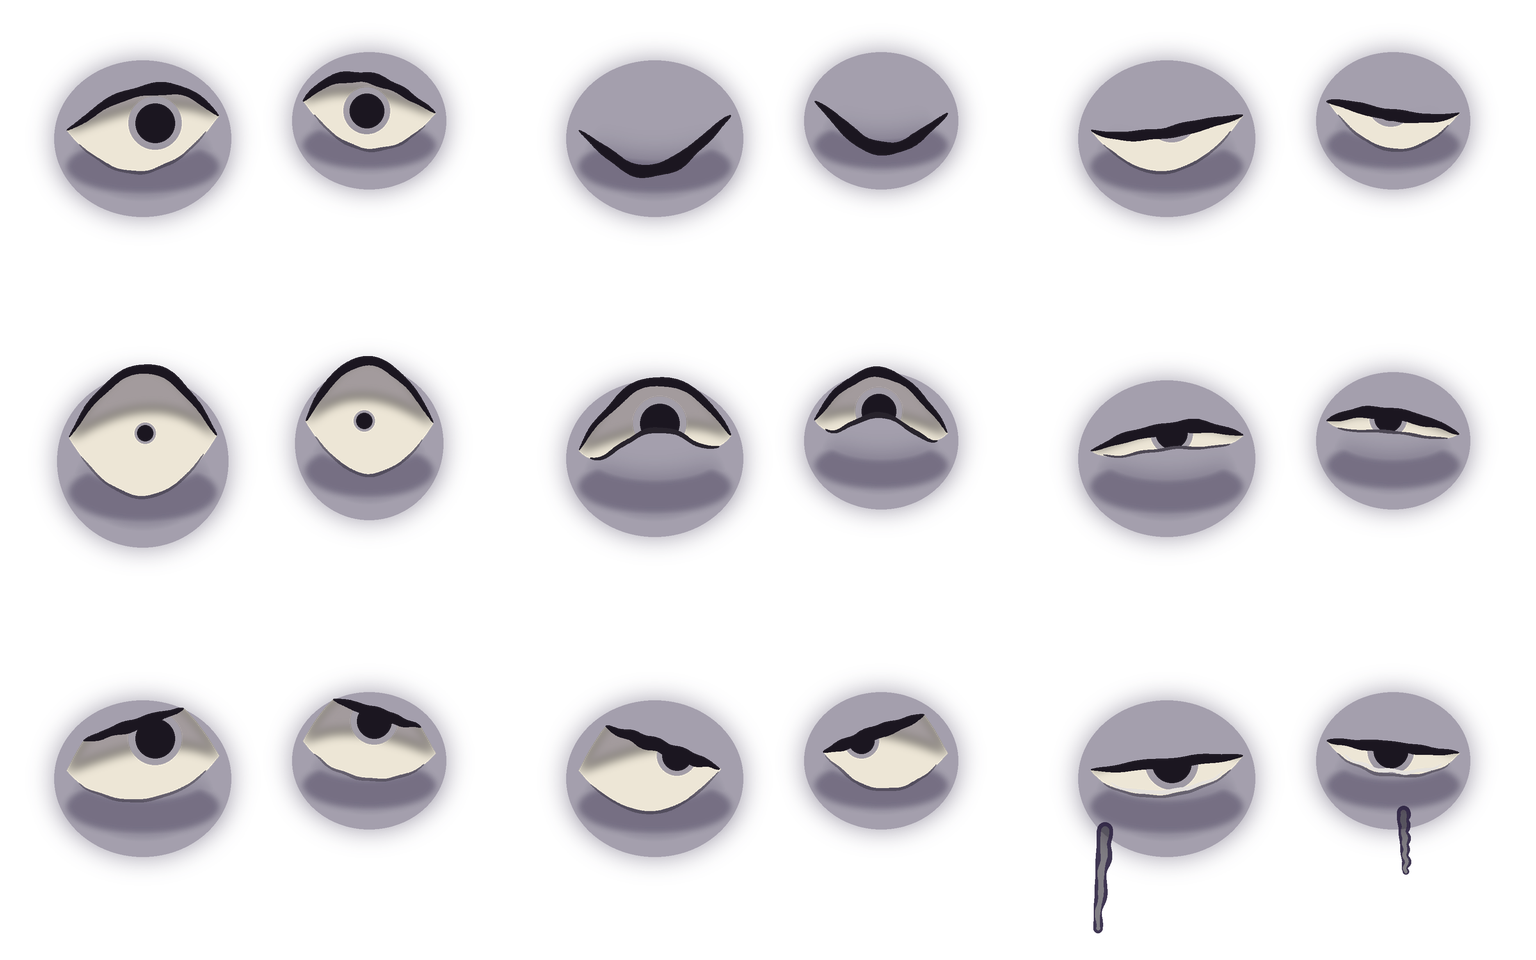
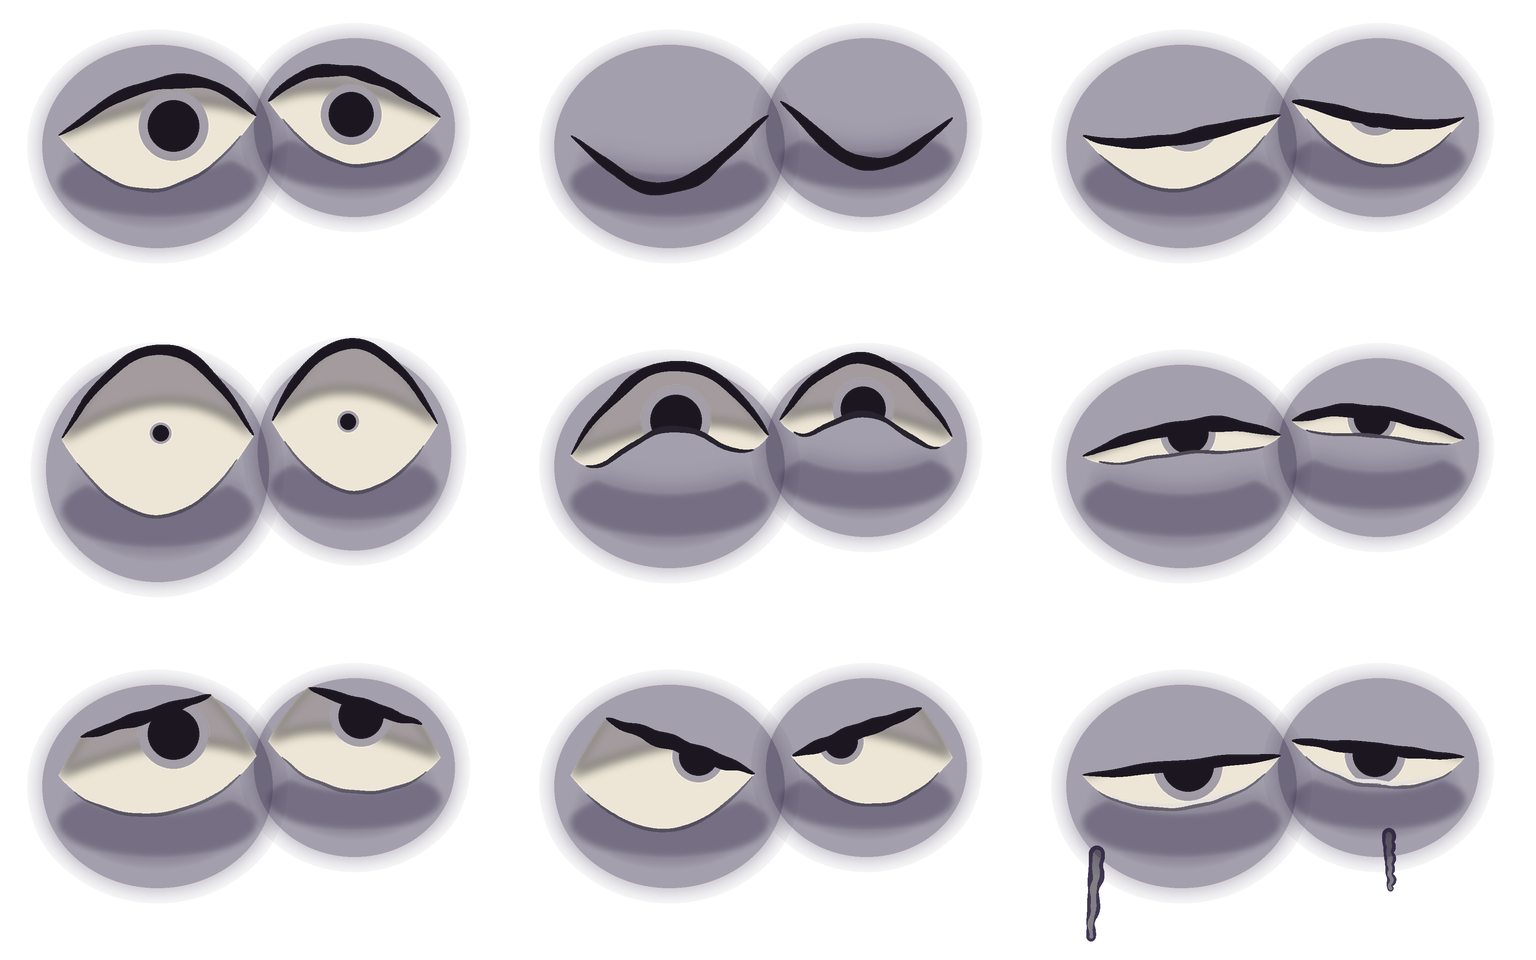
Aldeão v2, passo 7: prova do rosto nos tamanhos reais do jogo, janela dos olhos por ângulo, olhos 30% maiores, luz do jogo
- medir_zoom.py: altura em pixels na câmera do jogo (aldeão 19/44/112 px nos zooms 0,4/1/2,5 em 3024x1890)
- atlas com olhos e olheiras 30% maiores na mesma célula; rosto.json inalterado no formato
- face_patch com ângulo máximo (±35°, ±45°); material fosco e crepúsculo frio na prova
- assets/previews/aldeao_v2/prova_rosto_2.png

diff --git a/tools/arte/aldeao_v2/corpo_lib.py b/tools/arte/aldeao_v2/corpo_lib.py
@@ -113,12 +113,14 @@ def face_flatness(pts: np.ndarray, box: dict, raise_frac=0.0) -> dict:
     return out
 
 
-def flat_material(objects, color, name="pele"):
+def flat_material(objects, color, name="pele", matte=False):
     mat = bpy.data.materials.new(name)
     mat.use_nodes = True
     bsdf = mat.node_tree.nodes["Principled BSDF"]
     bsdf.inputs["Base Color"].default_value = color
-    bsdf.inputs["Roughness"].default_value = 0.9
+    bsdf.inputs["Roughness"].default_value = 1.0 if matte else 0.9
+    if matte and "Specular IOR Level" in bsdf.inputs:
+        bsdf.inputs["Specular IOR Level"].default_value = 0.0
     for obj in mesh_objects(objects):
         obj.data.materials.clear()
         obj.data.materials.append(mat)
@@ -129,6 +131,21 @@ def set_smooth(objects, smooth=True):
     for obj in mesh_objects(objects):
         for p in obj.data.polygons:
             p.use_smooth = smooth
+
+
+def twilight_lights(scene):
+    """Luz do jogo (GDD, seção 17): crepúsculo frio vindo de cima, fraco, ambiente roxo-acinzentado."""
+    for obj in [o for o in scene.objects if o.type == "LIGHT"]:
+        bpy.data.objects.remove(obj)
+    sun = bpy.data.objects.new("crepusculo", bpy.data.lights.new("crepusculo", "SUN"))
+    sun.data.energy = 1.6
+    sun.data.color = (0.72, 0.78, 0.95)
+    sun.data.angle = math.radians(20)
+    sun.rotation_euler = (math.radians(28), 0, math.radians(-20))  # quase de cima, um pouco da frente
+    scene.collection.objects.link(sun)
+    bg = scene.world.node_tree.nodes["Background"]
+    bg.inputs["Color"].default_value = (0.36, 0.33, 0.44, 1)
+    bg.inputs["Strength"].default_value = 0.55
 
 
 def setup_scene(resolution=1024, transparent=False):
@@ -178,7 +195,7 @@ def game_camera_offset(distance: float) -> Vector:
 
 # ---------- retalhos do rosto ----------
 
-def face_patch(body_obj, name: str, rect, cols: int, rows: int, offset_m=0.0015, grid=(24, 12)) -> bpy.types.Object:
+def face_patch(body_obj, name: str, rect, cols: int, rows: int, offset_m=0.0015, grid=(24, 12), phi_max_deg=None) -> bpy.types.Object:
     """Retalho curvo na frente da cabeça, afastado offset_m da pele, UV de 0 a 1 (o material escolhe a célula).
     Projeção cilíndrica em volta do eixo vertical da cabeça: cada linha da grade fica na altura z da janela e
     cada coluna num ângulo, de -phi_max a +phi_max, escolhido para que a corda corresponda à largura da janela.
@@ -192,7 +209,16 @@ def face_patch(body_obj, name: str, rect, cols: int, rows: int, offset_m=0.0015,
     yc = float((head[:, 1].min() + head[:, 1].max()) / 2)
     band = head[np.abs(head[:, 2] - (zt + zb) / 2) < 0.01]
     r_mid = float(band[:, 0].max() - band[:, 0].min()) / 2 if len(band) else float(head[:, 0].max() - head[:, 0].min()) / 2
-    phi_max = math.asin(min(0.995, (x1 - x0) / 2 / r_mid))
+    if phi_max_deg is not None:
+        # Janela pela corda do ângulo pedido; a altura segue a proporção da célula, centrada na janela dada.
+        phi_max = math.radians(phi_max_deg)
+        aspect = (x1 - x0) / (zt - zb)
+        half_w = r_mid * math.sin(phi_max)
+        zc = (zt + zb) / 2
+        x0, x1 = (x0 + x1) / 2 - half_w, (x0 + x1) / 2 + half_w
+        zt, zb = zc + half_w / aspect, zc - half_w / aspect
+    else:
+        phi_max = math.asin(min(0.995, (x1 - x0) / 2 / r_mid))
     nx, nz = grid
     bm = bmesh.new()
     verts = []
@@ -229,11 +255,13 @@ def face_patch(body_obj, name: str, rect, cols: int, rows: int, offset_m=0.0015,
     for p in mesh.polygons:
         p.use_smooth = True
     obj["phi_max_graus"] = math.degrees(phi_max)
+    obj["janela"] = [x0, zt, x1, zb]
     return obj
 
 
-def patch_material(name: str, image_path: Path, cols: int, rows: int):
-    """Material sem luz com o atlas: célula escolhida pelo nó Mapping (set_cell)."""
+def patch_material(name: str, image_path: Path, cols: int, rows: int, lit=False):
+    """Material com o atlas: célula escolhida pelo nó Mapping (set_cell). lit=False: emissão (sem luz);
+    lit=True: difuso fosco, recebe a mesma luz do corpo."""
     mat = bpy.data.materials.new(name)
     mat.use_nodes = True
     nodes, links = mat.node_tree.nodes, mat.node_tree.links
@@ -241,7 +269,12 @@ def patch_material(name: str, image_path: Path, cols: int, rows: int):
     out = nodes.new("ShaderNodeOutputMaterial")
     mix = nodes.new("ShaderNodeMixShader")
     transp = nodes.new("ShaderNodeBsdfTransparent")
-    emit = nodes.new("ShaderNodeEmission")
+    if lit:
+        emit = nodes.new("ShaderNodeBsdfDiffuse")
+        emit.inputs["Roughness"].default_value = 1.0
+        emit.outputs["BSDF"].name = "BSDF"
+    else:
+        emit = nodes.new("ShaderNodeEmission")
     tex = nodes.new("ShaderNodeTexImage")
     tex.image = bpy.data.images.load(str(image_path))
     tex.interpolation = "Linear"
@@ -254,7 +287,7 @@ def patch_material(name: str, image_path: Path, cols: int, rows: int):
     links.new(tex.outputs["Color"], emit.inputs["Color"])
     links.new(tex.outputs["Alpha"], mix.inputs["Fac"])
     links.new(transp.outputs["BSDF"], mix.inputs[1])
-    links.new(emit.outputs["Emission"], mix.inputs[2])
+    links.new(emit.outputs[0], mix.inputs[2])
     links.new(mix.outputs["Shader"], out.inputs["Surface"])
     if hasattr(mat, "surface_render_method"):
         mat.surface_render_method = "BLENDED"

diff --git a/tools/arte/aldeao_v2/prova_rosto.py b/tools/arte/aldeao_v2/prova_rosto.py
@@ -1,12 +1,10 @@
-"""Passo 5: prova do rosto no corpo limpo, antes de qualquer rig (Blender headless).
+"""Passo 7: nova prova do rosto no corpo limpo (Blender headless), material fiel ao jogo.
 
-Cria os retalhos "Olhos" e "Boca" na cabeça (curvos, 1,5 mm da pele, proporção da célula do atlas, UV 0..1) com
-o atlas final aplicado (material sem luz) e renderiza as 9 expressões na câmera do jogo (55°) em três variações:
-  a) janela dos olhos na posição atual;
-  b) janela dos olhos subida 10% da altura da cabeça;
-  c) posição atual, com a cabeça inclinada 10° para cima na pose de repouso.
-Saída: <pasta>/<variação>_<expressão>.png (fundo transparente) e <pasta>/prova.json. A montagem em 48 e 96 px
-e a linha de crepúsculo são do prova_rosto_folha.py.
+Retalhos "Olhos" e "Boca" com o atlas (olhos 30% maiores), janela dos olhos na altura da variação b (10% mais
+alta), largura por ângulo em volta do eixo da cabeça: variações "p35" (±35°) e "p45" (±45°). Pele #AEBFD3 fosca,
+luz baixa e fria do crepúsculo vinda de cima; retalhos com a mesma luz (não emissivos).
+Saída: <pasta>/<variação>_<expressão>.png (fundo transparente) e <pasta>/prova.json. A montagem nos tamanhos
+reais do jogo é do prova_rosto_folha.py.
 
 Uso:
   /Applications/Blender.app/Contents/MacOS/Blender -b --factory-startup --python tools/arte/aldeao_v2/prova_rosto.py -- <pasta_saida>
@@ -23,14 +21,14 @@ from mathutils import Matrix, Vector
 
 sys.path.insert(0, str(Path(__file__).resolve().parent))
 from corpo_lib import (EYES_FRAC, MOUTH_FRAC, ROOT, ROSTO, SKIN, face_patch, flat_material, game_camera_offset,  # noqa: E402
-                       head_box, import_glb, load_rosto, patch_material, set_cell, set_smooth, setup_scene, shoot, window_rect)
+                       head_box, import_glb, load_rosto, patch_material, set_cell, set_smooth, setup_scene, shoot, twilight_lights, window_rect)
 
 BODY = ROOT / "assets/modelos/aldeao_v2/aldeao_corpo.glb"
 RESOLUTION = 512
 ORTHO = 0.55  # m: enquadra o aldeão de 0,40 m
 PATCH_OFFSET = 0.0015
-RAISE_B = 0.10  # fração da altura da cabeça
-TILT_C = 10  # graus, cabeça para cima
+RAISE_B = 0.10  # fração da altura da cabeça (variação b aprovada)
+VARIANTS = {"p35": 35, "p45": 45}  # ângulo máximo em volta do eixo da cabeça
 NECK_BLEND = 0.03
 
 
@@ -57,29 +55,24 @@ def main() -> None:
     rosto = load_rosto()
     eyes_cfg, mouth_cfg = rosto["olhos"], rosto["boca"]
     info = {"variacoes": {}}
-    for variant in ("a", "b", "c"):
+    for variant, phi in VARIANTS.items():
         scene = setup_scene(RESOLUTION, transparent=True)
+        twilight_lights(scene)
         body = [o for o in import_glb(BODY) if o.type == "MESH"][0]
-        flat_material([body], SKIN)
+        flat_material([body], SKIN, matte=True)
         set_smooth([body], True)
         box = head_box(points(body))
-        raise_frac = RAISE_B if variant == "b" else 0.0
-        eyes = face_patch(body, "Olhos", window_rect(box, EYES_FRAC, raise_frac), eyes_cfg["colunas"], eyes_cfg["linhas"], PATCH_OFFSET, grid=(32, 20))
+        eyes = face_patch(body, "Olhos", window_rect(box, EYES_FRAC, RAISE_B), eyes_cfg["colunas"], eyes_cfg["linhas"], PATCH_OFFSET, grid=(32, 20), phi_max_deg=phi)
         mouth = face_patch(body, "Boca", window_rect(box, MOUTH_FRAC), mouth_cfg["colunas"], mouth_cfg["linhas"], PATCH_OFFSET, grid=(16, 8))
-        mat_e = patch_material("rosto_olhos", ROSTO / "olhos.png", eyes_cfg["colunas"], eyes_cfg["linhas"])
-        mat_m = patch_material("rosto_boca", ROSTO / "boca.png", mouth_cfg["colunas"], mouth_cfg["linhas"])
+        mat_e = patch_material("rosto_olhos", ROSTO / "olhos.png", eyes_cfg["colunas"], eyes_cfg["linhas"], lit=True)
+        mat_m = patch_material("rosto_boca", ROSTO / "boca.png", mouth_cfg["colunas"], mouth_cfg["linhas"], lit=True)
         eyes.data.materials.append(mat_e)
         mouth.data.materials.append(mat_m)
-        if variant == "c":
-            nose_before = min((v.co.copy() for v in body.data.vertices if v.co.z > box["pescoco_z"]), key=lambda c: c.y)
-            tilt_head([body, eyes, mouth], box, TILT_C)  # rotação positiva em X: a frente (-Y) sobe
-            nose_after = min((v.co.copy() for v in body.data.vertices if v.co.z > box["pescoco_z"]), key=lambda c: c.y)
-            info["variacoes"]["c_frente_subiu_m"] = round(nose_after.z - nose_before.z, 4)
         pts = points(body)
         low, high = pts.min(axis=0), pts.max(axis=0)
         center = Vector(((low[0] + high[0]) / 2, (low[1] + high[1]) / 2, (low[2] + high[2]) / 2))
         cam_pos = center + game_camera_offset(ORTHO * 4)
-        variant_info = {"janela_olhos": window_rect(box, EYES_FRAC, raise_frac), "janela_boca": window_rect(box, MOUTH_FRAC), "cabeca": box, "phi_max_olhos_graus": eyes["phi_max_graus"]}
+        variant_info = {"phi_max_graus": phi, "janela_olhos": list(eyes["janela"]), "janela_boca": list(mouth["janela"]), "cabeca": box}
         for name, spec in rosto["expressoes"].items():
             set_cell(mat_e, eyes_cfg["quadros"][spec["olhos"]], eyes_cfg["colunas"], eyes_cfg["linhas"])
             set_cell(mat_m, mouth_cfg["quadros"][spec["boca"]], mouth_cfg["colunas"], mouth_cfg["linhas"])

diff --git a/tools/arte/aldeao_v2/desenhar_rosto.py b/tools/arte/aldeao_v2/desenhar_rosto.py
@@ -45,7 +45,10 @@ MOIST = (246, 243, 236)
 TWILIGHT = (106, 91, 124)  # #6A5B7C
 CAVITY = tuple(round(b * 0.62 + s * 0.38) for b, s in zip(BONE, SHADOW))
 
-L, R = (82, 124), (174, 118)  # centros dos olhos (o direito menor e mais alto)
+# Olhos 30% maiores dentro da mesma célula (pedido de 29/09/2026: o GDD pede olhos enormes); os centros
+# aproximam um pouco para caber com a olheira. O direito menor e mais alto.
+EYE_SCALE = 1.3
+L, R = (88, 124), (168, 118)
 
 EYES = ["aberto", "fechado", "meio_fechado", "arregalado", "feliz", "apertado", "preocupado", "bravo", "lagrima"]
 MOUTHS = ["entreaberta", "sorriso", "o", "tensa", "triste", "brava", "dormindo"]
@@ -201,13 +204,15 @@ def olheira(face, eye: Eye, alpha=110, bag=55):
     sharp = ImageChops.add(sharp, crescent.point(lambda v: v * bag // 255))
     soft = sharp.filter(ImageFilter.GaussianBlur(5.0 * S))
     layer = Image.new("RGBA", face.size, (*SHADOW, 0))
-    layer.putalpha(ImageChops.lighter(sharp, soft))
+    layer.putalpha(ImageChops.lighter(sharp, soft).point(lambda v: 0 if v < 12 else v))
     face.alpha_composite(layer)
 
 
 def draw_eye(face, eye: Eye, *, cover_in, cover_out, pupil, look, raise_lower=0.0, lash=4.2, cavity=0.42,
              moist=False, seed=0, curve=0.0, straight=False, flat_floor=False, closed=False, floor_alpha=95,
              angle=None, floor_width=1.1, floor_profile=None):
+    lash, floor_width = lash * EYE_SCALE ** 0.5, floor_width * EYE_SCALE ** 0.5
+    look = (look[0] * EYE_SCALE, look[1] * EYE_SCALE)
     layer = Image.new("RGBA", face.size, (0, 0, 0, 0))
     if closed:  # só a linha dos cílios, grossa e curvada para baixo
         line = eye.lid(0.80, 0.86, curve=0.16)
@@ -258,9 +263,10 @@ def tear_streak(face, start, length, seed, lean=0.0, width=6.0):
 
 
 def eyes_pair(kind: str):
+    k = EYE_SCALE
     if kind == "arregalado":  # redondo, totalmente aberto
-        return Eye(L, +1, 30, 28, 26, 2), Eye(R, -1, 26, 25, 23, 2)
-    return Eye(L, +1, 31, 25, 24, 7), Eye(R, -1, 27, 22, 21, 6)
+        return Eye(L, +1, 30 * k, 28 * k, 26 * k, 2 * k), Eye(R, -1, 26 * k, 25 * k, 23 * k, 2 * k)
+    return Eye(L, +1, 31 * k, 25 * k, 24 * k, 7 * k), Eye(R, -1, 27 * k, 22 * k, 21 * k, 6 * k)
 
 
 def draw_eyes(kind: str, face: Image.Image) -> None:
@@ -272,7 +278,7 @@ def draw_eyes(kind: str, face: Image.Image) -> None:
     seed = 100 + EYES.index(kind) * 10
     for i, eye in enumerate((left, right)):
         s = seed + i * 3
-        p = 8 if i == 0 else 7
+        p = (8 if i == 0 else 7) * EYE_SCALE
         if kind == "aberto":  # distraído: pálpebra cobre 1/3, mais pesada por fora, olhar baixo e para o lado
             draw_eye(face, eye, cover_in=0.24, cover_out=0.40, pupil=p, look=(5, 4) if i == 0 else (-1, 5), seed=s)
         elif kind == "meio_fechado":  # sonolento: 2/3 coberto, pupila meio escondida
@@ -299,8 +305,8 @@ def draw_eyes(kind: str, face: Image.Image) -> None:
         else:
             raise ValueError(kind)
     if kind == "lagrima":
-        tear_streak(face, (left.outer[0] + 6, left.cy + left.h * 0.64), 40, seed + 7, lean=-0.08, width=6.5)
-        tear_streak(face, (right.cx + 4, right.cy + right.h * 0.70), 24, seed + 8, lean=0.05, width=5.0)
+        tear_streak(face, (left.outer[0] + 6, left.cy + left.h * 0.64), 34, seed + 7, lean=-0.08, width=6.5)
+        tear_streak(face, (right.cx + 4, right.cy + right.h * 0.70), 22, seed + 8, lean=0.05, width=5.0)
 
 
 # ---------- boca: variações da dobra ----------
@@ -380,8 +386,11 @@ def atlas(names, cell_size, grid, painter, window):
         cell = cell_from(face, window, cell_size)
         alpha = np.asarray(cell.getchannel("A"))
         border = np.concatenate([alpha[:MARGIN].ravel(), alpha[-MARGIN:].ravel(), alpha[:, :MARGIN].ravel(), alpha[:, -MARGIN:].ravel()])
-        if border.any():
+        if border.max() > 2:
             raise RuntimeError(f"quadro {name!r} invade a margem de {MARGIN} px (alfa máximo {border.max()})")
+        a = np.array(cell.getchannel("A"))  # resíduo do LANCZOS (alfa 1 ou 2) na margem vira zero
+        a[:MARGIN] = 0; a[-MARGIN:] = 0; a[:, :MARGIN] = 0; a[:, -MARGIN:] = 0
+        cell.putalpha(Image.fromarray(a))
         sheet.paste(cell, ((i % cols) * w, (i // cols) * h))
     return sheet, faces
 

diff --git a/tools/arte/aldeao_v2/medir_zoom.py b/tools/arte/aldeao_v2/medir_zoom.py
@@ -1,0 +1,44 @@
+"""Altura em pixels da protagonista e do aldeão na câmera do jogo (perspectiva, FOV vertical 45°, pitch 55°,
+distância 16 m / zoom), em 3024x1890, nos zooms 0,4, 1 e 2,5 (CameraRig.cs)."""
+import math, sys, json
+from pathlib import Path
+import bpy
+from mathutils import Vector
+sys.path.insert(0, "/Users/arthurlopesdefranca/Projetos/cidadela-arte/tools/arte/aldeao_v2")
+from corpo_lib import import_glb, mesh_points, flat_material, set_smooth, SKIN
+import numpy as np
+ROOT = Path("/Users/arthurlopesdefranca/Projetos/cidadela-arte")
+S = Path(__file__).resolve().parent / "_zoom"  # renders de medição, fora do git
+W, H, FOV, PITCH, DIST = 3024, 1890, 45.0, 55.0, 16.0
+out = {}
+for name, glb in (("protagonista", ROOT / "assets/modelos/protagonista/protagonista.glb"), ("aldeao", ROOT / "assets/modelos/aldeao_v2/aldeao_corpo.glb")):
+    bpy.ops.wm.read_factory_settings(use_empty=True)
+    scene = bpy.context.scene
+    scene.render.resolution_x, scene.render.resolution_y = W, H
+    scene.render.film_transparent = True
+    scene.render.engine = "BLENDER_EEVEE_NEXT" if "BLENDER_EEVEE_NEXT" in [e.identifier for e in bpy.types.RenderSettings.bl_rna.properties["engine"].enum_items] else "BLENDER_EEVEE"
+    objs = import_glb(glb)
+    for o in objs:
+        if o.type == "ARMATURE": o.data.pose_position = "REST"
+    flat_material(objs, SKIN); set_smooth(objs, True)
+    pts = mesh_points(objs); low, high = pts.min(axis=0), pts.max(axis=0)
+    height = float(high[2] - low[2])
+    out[name] = {"altura_m": round(height, 3), "zoom": {}}
+    for zoom in (0.4, 1.0, 2.5):
+        d = DIST / zoom
+        cam = bpy.data.objects.new("cam", bpy.data.cameras.new("cam")); scene.collection.objects.link(cam)
+        cam.data.type = "PERSP"; cam.data.sensor_fit = "VERTICAL"; cam.data.angle_y = math.radians(FOV)
+        cam.data.clip_end = 200
+        tilt = math.radians(PITCH)
+        target = Vector((0, 0, 0))  # a câmera mira o chão onde o personagem está
+        cam.location = target + Vector((0, -math.cos(tilt), math.sin(tilt))) * d
+        cam.rotation_euler = (target - cam.location).to_track_quat("-Z", "Y").to_euler()
+        scene.camera = cam
+        path = S / f"zoom_{name}_{zoom}.png"
+        scene.render.filepath = str(path); bpy.ops.render.render(write_still=True)
+        img = bpy.data.images.load(str(path))
+        px = np.array(img.pixels[:]).reshape(H, W, 4)[:, :, 3]
+        rows = np.nonzero(px.max(axis=1) > 0.05)[0]
+        out[name]["zoom"][str(zoom)] = int(rows.max() - rows.min() + 1) if len(rows) else 0
+        bpy.data.images.remove(img); bpy.data.objects.remove(cam)
+print("MEDIDAS " + json.dumps(out))

diff --git a/tools/arte/aldeao_v2/prova_rosto_folha.py b/tools/arte/aldeao_v2/prova_rosto_folha.py
@@ -2,6 +2,7 @@
 altura, mais a linha de 48 px multiplicada por #6A5B7C (crepúsculo).
 
 Uso: uv run prova_rosto_folha.py <pasta_dos_renders> <saida.png>
+Tamanhos reais do jogo (3024x1890): aldeão com 19, 44 e 112 px nos zooms 0,4, 1 e 2,5.
 """
 
 import sys
@@ -11,8 +12,11 @@ from PIL import Image, ImageChops, ImageDraw, ImageFont
 
 FONT = "/System/Library/Fonts/Supplemental/Arial.ttf"
 EXPRESSIONS = ["distraido", "esforco", "feliz", "sonolento", "dormindo", "espantado", "preocupado", "chorando", "bravo"]
-VARIANTS = [("a", "a) janela atual"), ("b", "b) janela dos olhos 10% mais alta"), ("c", "c) cabeça 10° para cima")]
-GROUND = (112, 108, 122)
+VARIANTS = [("p35", "janela dos olhos até ±35°"), ("p45", "janela dos olhos até ±45°")]
+# Altura do aldeão em pixels na câmera do jogo em 3024x1890 (medido em medir_zoom.py): zoom 0,4 / 1 / 2,5.
+SIZES = [("zoom mínimo (19 px)", 19, 40, False), ("zoom padrão (44 px)", 44, 64, False), ("zoom máximo (112 px)", 112, 132, False),
+         ("zoom padrão × crepúsculo", 44, 64, True)]
+GROUND = (78, 74, 88)  # chão escuro do jogo
 TWILIGHT = (106, 91, 124)
 
 
@@ -37,13 +41,13 @@ def tile(sprite: Image.Image, size: int, twilight=False) -> Image.Image:
 def main() -> None:
     renders, out = Path(sys.argv[1]), Path(sys.argv[2])
     font, small = ImageFont.truetype(FONT, 20), ImageFont.truetype(FONT, 14)
-    rows = [("96 px", 96, 120, False), ("48 px", 48, 64, False), ("48 px × crepúsculo", 48, 64, True)]
+    rows = SIZES
     cell = 130
     block_h = 34 + sum(r[2] + 6 for r in rows) + 12
-    sheet = Image.new("RGBA", (110 + cell * 9, 28 + block_h * len(VARIANTS)), (236, 233, 240, 255))
+    sheet = Image.new("RGBA", (150 + cell * 9, 28 + block_h * len(VARIANTS)), (236, 233, 240, 255))
     d = ImageDraw.Draw(sheet)
     for c, name in enumerate(EXPRESSIONS):
-        d.text((110 + c * cell + 4, 6), name, fill=(40, 36, 48), font=small)
+        d.text((150 + c * cell + 4, 6), name, fill=(40, 36, 48), font=small)
     for b, (key, label) in enumerate(VARIANTS):
         y = 28 + b * block_h
         d.text((8, y + 6), label, fill=(30, 26, 40), font=font)
@@ -52,7 +56,7 @@ def main() -> None:
             d.text((8, y + size // 2 - 8), rname, fill=(90, 86, 100), font=small)
             for c, name in enumerate(EXPRESSIONS):
                 sprite = villager(renders / f"{key}_{name}.png", height)
-                sheet.alpha_composite(tile(sprite, size, twilight), (110 + c * cell + (cell - size) // 2, y))
+                sheet.alpha_composite(tile(sprite, size, twilight), (150 + c * cell + (cell - size) // 2, y))
             y += size + 6
     sheet.convert("RGB").save(out)
     print(out)

diff --git a/docs/DIARIO.md b/docs/DIARIO.md
@@ -2319,3 +2319,29 @@ onde errou, correções manuais e quanto tempo levou.
   c mais clara. A c fixa o queixo erguido na pose de repouso, o que muda o personagem; a b não muda nada.
   Sugestão: b, ou b com uns 5° de inclinação, se o queixo erguido agradar.
 - **Créditos:** 0. **Correções manuais:** nenhuma. **Tempo:** ~1 h.
+
+## 2026-09-29 — Aldeão v2, passo 7: nova prova do rosto (tamanhos reais, janela por ângulo, olhos maiores, luz do jogo)
+
+- **Agente / modelo:** Claude Code + Fable 5.1, agente de ARTE na branch `arte`.
+- **Pedido:** corpo limpo aprovado; variação b escolhida; a prova anterior deixou os olhos como fendas nas laterais
+  (janela de 97% da largura, projeção até ±72°). Medir o tamanho real no jogo e usar na prova; janela dos olhos
+  até ±35° e ±45° com a altura da b; olhos 30% maiores na célula; material fiel ao jogo; folha com as duas larguras
+  (o texto do pedido chegou cortado no item 5; assumi: duas larguras × três zooms + linha de crepúsculo).
+- **Tamanho real (`tools/arte/aldeao_v2/medir_zoom.py`):** a câmera do jogo (`CameraRig.cs`: perspectiva, FOV 45°
+  vertical, inclinação 55°, 16 m no zoom 1, zoom 0,4 a 2,5) reproduzida no Blender em 3024×1890, medindo a
+  caixa de pixels do modelo. Protagonista (GLB de 0,80 m): 28 / 68 / 179 px nos zooms 0,4 / 1 / 2,5. Aldeão de
+  0,40 m: 19 / 44 / 112 px (medido direto; pela proporção 0,40/0,75 sobre a protagonista daria 15 / 36 / 95, mas
+  a cabeça grande e a profundidade do corpo contam na caixa). Validação pelo godot-ai: o jogo abriu no menu
+  (janela de 3840×2160), a captura em resolução cheia estourou o limite de 4 MB do MCP e a de 1024 px veio
+  congelada com a janela em segundo plano; a medida usada é a do Blender, que é a mesma conta da câmera.
+- **Atlas (`desenhar_rosto.py`):** olhos e olheiras 30% maiores (raios, pupilas, cílios) dentro da mesma célula,
+  centros aproximados de 82/174 para 88/168 para caber com a olheira; rabo do desfoque cortado abaixo de 12/255;
+  resíduo de 1 a 2 de alfa do LANCZOS na margem zerado. Formato do `rosto.json` e nomes dos quadros iguais.
+- **Prova (`prova_rosto.py`, `prova_rosto_folha.py`):** `face_patch` aceita ângulo máximo: a largura vira a corda
+  do ângulo e a altura segue a proporção 8:5 da célula, centrada na janela da b. Janela dos olhos: ±35° = 89 mm
+  de largura; ±45° = 109 mm (antes: 146 mm a ±72°). Pele #AEBFD3 fosca (rugosidade 1, sem especular), sol frio
+  fraco quase de cima, ambiente roxo-acinzentado; retalhos difusos com a mesma luz. Folha
+  `assets/previews/aldeao_v2/prova_rosto_2.png`: 19, 44 e 112 px e 44 px × crepúsculo, para as duas larguras.
+- **Leitura:** as duas tiram a cara de alienígena. A ±45° lê melhor a 44 px (olhos maiores e mais separados) e
+  ainda fica inteira na frente do rosto; a ±35° junta os olhos demais. A 19 px nada lê em nenhuma. Sugestão: ±45°.
+- **Créditos:** 0 nesta parte (o rig está no passo 6). **Correções manuais:** nenhuma. **Tempo:** ~1 h 20.
